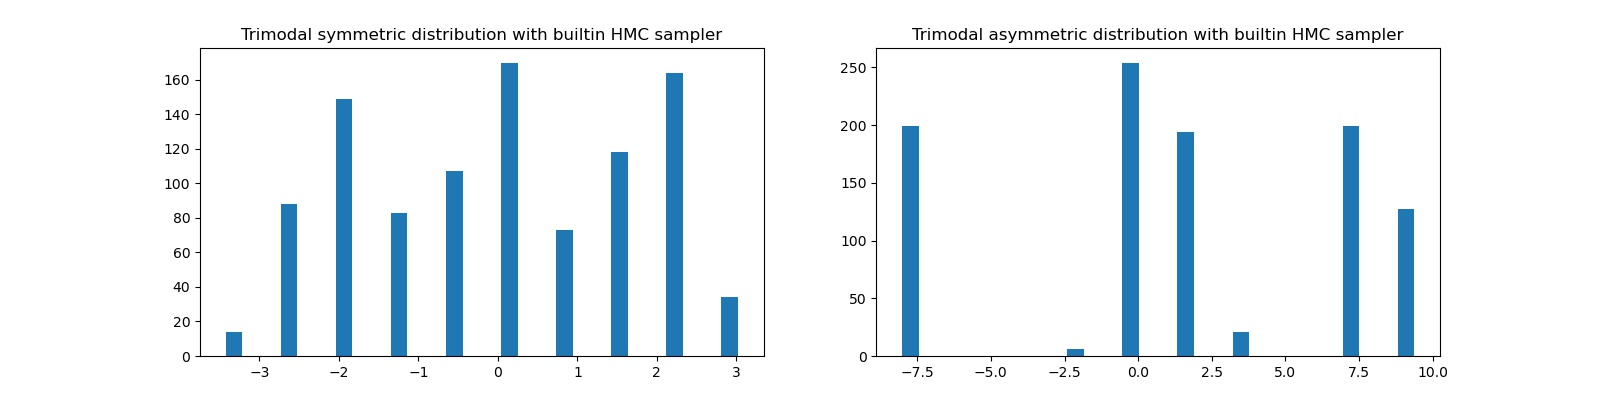
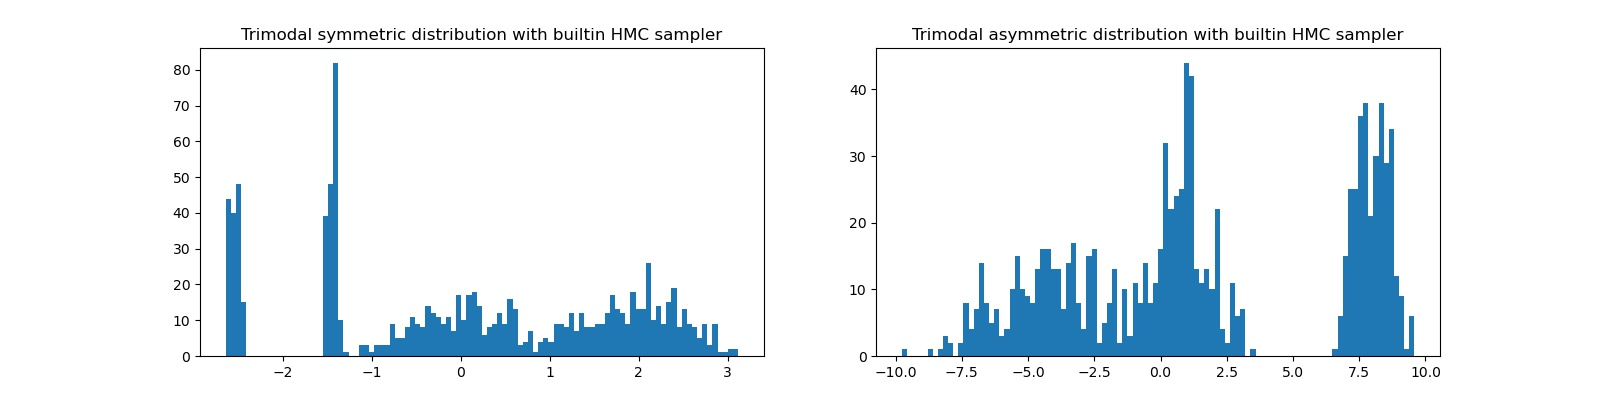
Modify bin size and regenerate basic and builtin hmc sampling plots for smoother curves

diff --git a/experiments/sampling_experiments.py b/experiments/sampling_experiments.py
@@ -1,11 +1,16 @@
-import os, sys, torch
+import os
+import sys
 import matplotlib.pyplot as plt
 import numpy as np
+import distributions
 from pyro.infer.mcmc import MCMC
 from pyro.infer.mcmc.nuts import HMC
+
+currentdir = os.path.dirname(os.path.realpath(__file__))
+parentdir = os.path.dirname(currentdir)
+sys.path.append(parentdir)
 from samplers.basic_hmc import BasicHMC
-from samplers.sghmc import SGHMC
-import distributions
+
 
 '''
 Perform sampling experiments for built-in Pyro HMC 
@@ -21,10 +26,6 @@ python sampling_experiments.py basic
 
 Result will be saved in figures/sampling_experiments
 '''
-
-currentdir = os.path.dirname(os.path.realpath(__file__))
-parentdir = os.path.dirname(currentdir)
-sys.path.append(parentdir)
 
 # Define HMC kernel based on argument
 kernel = None
@@ -49,15 +50,17 @@ def hmc_sampling(dist):
 
 # Code for generating plots for various distributions
 
+BIN_SIZE = 100
+
 # Unimodal distributions
 fig, ax1 = plt.subplots(1, 2, figsize=(16, 4))
 
 unimodal_sym_posterior = hmc_sampling(distributions.unimodal_sym)
-ax1[0].hist(unimodal_sym_posterior['sample'].numpy(), rwidth=0.3)
+ax1[0].hist(unimodal_sym_posterior['sample'].numpy(), bins=BIN_SIZE)
 ax1[0].set_title('Unimodal symmetric distribution with ' + option + ' HMC sampler')
 
 unimodal_asym_posterior = hmc_sampling(distributions.unimodal_asym)
-ax1[1].hist(unimodal_asym_posterior['sample'].numpy(), rwidth=0.3)
+ax1[1].hist(unimodal_asym_posterior['sample'].numpy(), bins=BIN_SIZE)
 ax1[1].set_title('Unimodal asymmetric distribution with ' + option + ' HMC sampler')
 plt.savefig("figures/sampling_experiments/unimodal_" + option + ".jpg")
 
@@ -69,7 +72,7 @@ sample1, sample2, weight = bimodal_symmetric_posterior["sample1"], bimodal_symme
                            bimodal_symmetric_posterior["weight"]
 bimodal_symmetric_posterior = np.array([[sample1[i], sample2[i]][weight[i] < 0.5] for i in range(len(sample1))])
 
-ax2[0].hist(bimodal_symmetric_posterior, rwidth=0.3)
+ax2[0].hist(bimodal_symmetric_posterior, bins=BIN_SIZE)
 ax2[0].set_title('Bimodal symmetric distribution with ' + option + ' HMC sampler')
 
 bimodal_asymmetric_posterior = hmc_sampling(distributions.bimodal_asym)
@@ -77,7 +80,7 @@ sample1, sample2, weight = bimodal_asymmetric_posterior["sample1"], bimodal_asym
                            bimodal_asymmetric_posterior["weight"]
 bimodal_asymmetric_posterior = np.array([[sample1[i], sample2[i]][weight[i] < 0.5] for i in range(len(sample1))])
 
-ax2[1].hist(bimodal_asymmetric_posterior, rwidth=0.3)
+ax2[1].hist(bimodal_asymmetric_posterior, bins=BIN_SIZE)
 ax2[1].set_title('Bimodal asymmetric distribution with ' + option + ' HMC sampler')
 plt.savefig("figures/sampling_experiments/bimodal_" + option + ".jpg")
 
@@ -91,7 +94,7 @@ trimodal_symmetric_posterior = np.array(
     [[sample1[i], sample2[i], sample3[i]][0 if weight[i] < 1 / 3 else (2 if weight[i] > 2 / 3 else 1)] for i in
      range(len(sample1))])
 
-ax3[0].hist(trimodal_symmetric_posterior, rwidth=0.3)
+ax3[0].hist(trimodal_symmetric_posterior, bins=BIN_SIZE)
 ax3[0].set_title('Trimodal symmetric distribution with ' + option + ' HMC sampler')
 
 trimodal_asymmetric_posterior = hmc_sampling(distributions.trimodal_asym)
@@ -101,6 +104,6 @@ trimodal_asymmetric_posterior = np.array(
     [[sample1[i], sample2[i], sample3[i]][0 if weight[i] < 1 / 3 else (2 if weight[i] > 2 / 3 else 1)] for i in
      range(len(sample1))])
 
-ax3[1].hist(trimodal_asymmetric_posterior, rwidth=0.3)
+ax3[1].hist(trimodal_asymmetric_posterior, bins=BIN_SIZE)
 ax3[1].set_title('Trimodal asymmetric distribution with ' + option + ' HMC sampler')
 plt.savefig("figures/sampling_experiments/trimodal_" + option + ".jpg")
